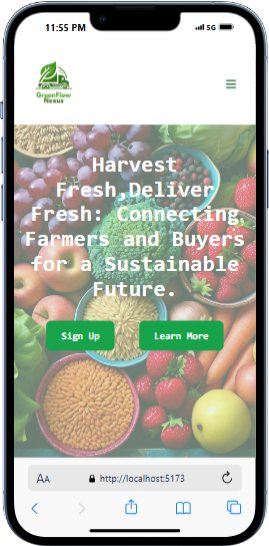
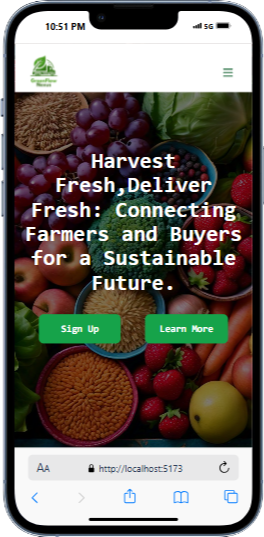
Penpal

diff --git a/src/Component/Navbar.jsx b/src/Component/Navbar.jsx
@@ -1,9 +1,20 @@
 import { useRef } from "react";
-import { useState } from "react"
-import { Link } from "react-router-dom";
+import { useState, useEffect } from "react"
+import { Link as ScrollLink } from "react-scroll";
+import { Link as RouterLink } from "react-router-dom";
+
 
 export default function Navbar() {
    const [isOpen, setIsOpen] = useState(false);
+   const [isScrolled, setIsScrolled] = useState(false);
+
+    useEffect(() => {
+    const handleScroll = () => {
+      setIsScrolled(window.scrollY > 50);
+    }
+    window.addEventListener("scroll", handleScroll);
+    return() => window.removeEventListener("scroll", handleScroll);
+   }, []);
    const menuRef = useRef(null);
    const buttonRef =useRef(null);
 
@@ -17,10 +28,10 @@ export default function Navbar() {
    }
 
   return (
-    <div className="fixed w-full bg-white h-20 z-50 ">
+    <div className= {`fixed w-full  h-20 z-50 duration-300 ${isScrolled ? 'bg-green-500' : 'bg-white'  }`} >
       <div className="flex flex-wrap justify-between items-center">
         <a href="/" className="flex items-center space-x-3 rtl:space-x-reverse">
-         <img src="./assets/icons/GreenFlow-Logo-removebg-preview.png" alt="GreenFlow Logo" className="h-24"/>
+         <img src={ isScrolled ? "/assets/icons/Greenflow-White- Logo.png" : "./assets/icons/GreenFlow-Logo-removebg-preview.png"} alt="GreenFlow Logo" className="h-24"/>
         </a>
         <button
          ref={buttonRef}
@@ -50,54 +61,42 @@ export default function Navbar() {
         isOpen ? "block" : "hidden"
        }`}>
 
-        <ul className="font-semibold flex flex-col mr-5 border rounded-lg lg:flex-row lg:space-x-8 rtl:space-x-reverse  lg:border-0">
-          <li>
-            <a 
-             href="#"
+        <ul className="font-semibold flex flex-col mr-5 border rounded-lg lg:flex-row lg:space-x-8 rtl:space-x-reverse  lg:border-0 mobile:bg-white">
+          <ScrollLink to="hero" offset={10} smooth={true} duration={500}
              onClick={closeMenu}
-             className="block py-2 px-4 text-md rounded hover:bg-green-800 mobile:hover:text-white lg:hover:text-green-800 lg:hover:bg-white lg:border-0 lg:p-0">
+             className={`block py-2 px-4 text-md rounded  mobile:hover:text-white  lg:border-0 lg:p-0 cursor-pointer ${isScrolled? 'text-white hover:text-green-950' : 'text-black hover:text-green-800'} `}>
               Home
-            </a>
-          </li>
-          <li>
-            <a 
-             href="#"
+          </ScrollLink>
+          <ScrollLink to="product" offset={-110} smooth={true} duration={500}
              onClick={closeMenu}
-             className="block py-2 px-4 text-md rounded hover:bg-green-800 mobile:hover:text-white lg:hover:text-green-800 lg:hover:bg-white lg:border-0 lg:p-0">
+             className={`block py-2 px-4 text-md rounded  mobile:hover:text-white lg:border-0 lg:p-0 cursor-pointer ${isScrolled? 'text-white hover:text-green-950'  : 'text-black hover:text-green-800'} `}>
               Our Workflows
-            </a>
-          </li>
-          <li>
-            <a 
-             href="#"
+          </ScrollLink>
+          <ScrollLink to="about" offset={-110} smooth={true} duration={500}
              onClick={closeMenu}
-             className="block py-2 px-4 text-md rounded hover:bg-green-800 mobile:hover:text-white lg:hover:text-green-800 lg:hover:bg-white lg:border-0 lg:p-0">
+             className={`block py-2 px-4 text-md rounded  mobile:hover:text-white lg:border-0 lg:p-0 cursor-pointer ${isScrolled? 'text-white hover:text-green-950' : 'text-black hover:text-green-800'} `}>
+              About us
+          </ScrollLink>
+          <ScrollLink to="survey" offset={-100} smooth={true} duration={500}
+             onClick={closeMenu}
+             className={`block py-2 px-4 text-md rounded mobile:hover:text-white lg:border-0 lg:p-0 cursor-pointer ${isScrolled? 'text-white hover:text-green-950' : 'text-black hover:text-green-800'} `}>
                F.A.Qs
-            </a>
-          </li>
-          <li>
-            <a 
-             href="#"
-             onClick={closeMenu}
-             className="block py-2 px-4 text-md rounded hover:bg-green-800 mobile:hover:text-white lg:hover:text-green-800 lg:hover:bg-white lg:border-0 lg:p-0">
+          </ScrollLink>
+          <ScrollLink to="footer" offset={200} smooth={true} duration={500}
+           onClick={closeMenu}
+             className={`block py-2 px-4 text-md rounded mobile:hover:text-white   lg:border-0 lg:p-0 cursor-pointer ${isScrolled? 'text-white hover:text-green-950' : 'text-black hover:text-green-800'} `}>
               Contact Us
-            </a>
-          </li>
-          <Link to="login">
-            <a 
-             href="#"
+          </ScrollLink>
+          <RouterLink to="login"
              onClick={closeMenu}
-             className="block py-2 px-4 text-md rounded hover:bg-green-800 mobile:hover:text-white lg:hover:text-green-800 lg:hover:bg-white lg:border-0 lg:p-0">
+             className={`block py-2 px-4 text-md rounded mobile:hover:text-white  lg:border-0 lg:p-0 cursor-pointer ${isScrolled? 'text-white hover:text-green-950' : 'text-black hover:text-green-800'} `}>
               Login
-            </a>
-          </Link>
-          <Link to="/signup">
-            <a href="#"
+          </RouterLink>
+          <RouterLink to="/signup"
             onClick={closeMenu}
-            className="hover:bg-green-800 bg-green-700  text-white py-2 px-6 rounded-lg block text-md sm:-mt-2 my-2 cursor-pointer transition delay-100 hover:-translate-y-1">
+            className="hover:bg-green-800 bg-green-700  text-white py-2 px-6 rounded-lg block text-md sm:-mt-2 my-2 cursor-pointer transition delay-100 hover:-translate-y-1 ">
               Join GreenFlow
-            </a>
-          </Link>
+          </RouterLink>
         </ul>
        </div>
     </div>

diff --git a/src/Component/HeroSection.jsx b/src/Component/HeroSection.jsx
@@ -2,12 +2,12 @@ import { Link } from "react-router-dom"
 import backgroundImage from "/assets/images/IMG-20241026-WA0001.jpg"
 export default function HeroSection() {
   return (
-    <div className="relative bg-cover bg-center w-full h-screen" style={{backgroundImage:`url(${backgroundImage})`}}>
+    <div className=" hero relative bg-cover bg-center w-full h-screen" style={{backgroundImage:`url(${backgroundImage})`}}>
             {/* Overlay green color */}
        <div className="absolute inset-0 bg-black bg-opacity-50"></div>
        <div className="relative z-10 flex items-center justify-center h-full text-center">
         <div className="text-white">
-          <h1 className="text-4xl font-bold md:text-5xl">
+          <h1 className="fade-in text-4xl font-bold md:text-5xl">
             Harvest Fresh,Deliver Fresh: Connecting Farmers and Buyers for a Sustainable Future.
           </h1>
           <p className="mt-4 text-lg md:text-2xl mobile:hidden">

diff --git a/src/Component/Download.jsx b/src/Component/Download.jsx
@@ -6,7 +6,7 @@ export default function Download () {
     return (
         <div className="flex items-center justify-center mt-10 mobile:p-4">
         <div className="flex flex-row bg-green-700 justify-between gap-5 p-6 rounded-xl mobile:flex-col mobile:items-center">
-            <img src={mobileGreenflow} alt="mobile app" className="h-56 mobile:h-56 mobile:w-28" />
+            <img src={mobileGreenflow} alt="mobile app" className="h-56 mobile:h-56 mobile:w-28 transform -rotate-12" />
             <div className="flex flex-col items-start gap-4 ml-10">
                 <h2 className="text-white font-semibold text-3xl mobile:text-[23px]">Get complete experience</h2>
                 <p className="text-white text-[13px] w-[75%] mobile:text-[16px] mobile:w-full">Download our mobile app and enjoy convenience like never before.</p>

diff --git a/src/Pages/LandingPage.jsx b/src/Pages/LandingPage.jsx
@@ -1,3 +1,4 @@
+import { useState } from "react";
 import Blog from "../Component/Blog";
 import Download from "../Component/Download";
 import Footer from "../Component/Footer";
@@ -6,8 +7,23 @@ import Navbar from "../Component/Navbar";
 import Product from "../Component/Product";
 import Survey from "../Component/Survey";
 import Workflows from "../Component/WorkFlows";
+import { useEffect } from "react";
+import Preloader from "../Component/Proloader/Preloader";
+
 
 export default function LanndingPage() {
+  const [isLoading, setIsLoading] = useState(true);
+
+  useEffect(() => {
+    //Setting loading time
+    const timer = setTimeout(() => setIsLoading(false), 2000);
+    return () => clearTimeout(timer);
+  }, []);
+
+  if  (isLoading) {
+    return <Preloader />
+  }
+
   return (
     <div>
     <Navbar />

diff --git a/src/Component/Footer.jsx b/src/Component/Footer.jsx
@@ -3,7 +3,7 @@ import { FaFacebook } from "react-icons/fa"
 import { FaInstagram, FaLinkedin, FaTwitter } from "react-icons/fa6"
 export default function Footer () {
     return (
-        <div className="flex flex-col gap-3 bg-green-700">
+        <div className=" footer flex flex-col gap-3 bg-green-700">
             <div className="flex flex-row items-center justify-between mb-5 mobile:flex-col tablet:justify-center">
                 <div className="flex flex-col gap-2 items-start mobile:items-center tablet:items-center">
                 <img src="/assets/icons/Greenflow-White- Logo.png" alt="greenflow logo" className="h-40" />

diff --git a/src/Component/WorkFlows.jsx b/src/Component/WorkFlows.jsx
@@ -3,7 +3,7 @@ import transportImage from "/assets/icons/Truck.webp"
 import trackingImage from "/assets/icons/Tracking.jpg"
 export default function Workflows () {
     return (
-        <div className="relative bg-cover bg-center mt-10 bg-green-700">
+        <div className="about relative bg-cover bg-center mt-10 bg-green-700">
             <div className="flex flex-col items-center gap-5">
                 <h2 className="text-green-700 bg-white p-3 rounded-xl font-semibold text-2xl mt-5">How GreenFlows Works</h2>
                 <div className="flex flex-row items-center justify-between gap-5 p-10 mobile:flex-col">

diff --git a/src/Component/Proloader/Preloader.css b/src/Component/Proloader/Preloader.css
@@ -1,0 +1,29 @@
+/* Preloader styling */
+.preloader {
+    display: flex;
+    justify-content: center;
+    align-items: center;
+    height: 100vh;
+    width: 100vw;
+    position: fixed;
+    top: 0;
+    left: 0;
+    background-color: #ffffff;
+    z-index: 9999;
+  }
+  
+  /* Spinner animation */
+  .spinner {
+    width: 50px;
+    height: 50px;
+    border: 5px solid #e3e3e3;
+    border-top: 5px solid green;
+    border-radius: 50%;
+    animation: spin 1s linear infinite;
+  }
+  
+  @keyframes spin {
+    from { transform: rotate(0deg); }
+    to { transform: rotate(360deg); }
+  }
+  

diff --git a/src/Component/Product.jsx b/src/Component/Product.jsx
@@ -1,6 +1,6 @@
 export default function Product () {
     return (
-        <div className="flex relative mt-5 flex-col gap-3">
+        <div className="product flex relative mt-5 flex-col gap-3">
             <div className="overflow-hidden w-full">
             <p className="bg-green-500 px-7 py-2 text-white font-medium w-full text-[15px] scroll-right">
             Tomatoes | Bell Peppers | Cucumbers | Zucchini | Strawberries | Raspberries | Blackberries | Blueberries | Peaches | Apricots | Plums | Cherries | Apples.

diff --git a/src/Component/Survey.jsx b/src/Component/Survey.jsx
@@ -9,7 +9,7 @@ export default function Survey () {
         setOpenAnswerId(openAnswerId === id ? null : id);
     }
     return (
-        <div className="mt-10">
+        <div className="survey mt-10">
             <h2 className="text-center text-3xl font-semibold">Frequently Asked Questions (FAQs).</h2>
 
             <div className="p-10 w-[80%] mobile:w-[90%] mx-auto border-2 border-green-700 rounded-lg shadow-lg mt-10 mb-10">

diff --git a/src/index.css b/src/index.css
@@ -25,6 +25,11 @@ body {
   }
 }
 
+@keyframes fadeIn {
+  from { opacity: 0; }
+  to { opacity: 1; }
+}
+
 
 
 .scroll-right {
@@ -39,3 +44,8 @@ body {
   overflow: hidden;
 }
 
+
+.fade-in {
+  opacity: 0;                     /* Start hidden */
+  animation: fadeIn 2s ease-in forwards;
+}

diff --git a/src/Component/Proloader/Preloader.jsx b/src/Component/Proloader/Preloader.jsx
@@ -1,0 +1,8 @@
+import './Preloader.css'
+export default function Preloader() {
+    return (
+        <div className="preloader">
+            <div className="spinner"></div>
+        </div>
+    )
+}
